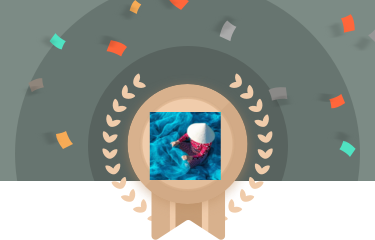
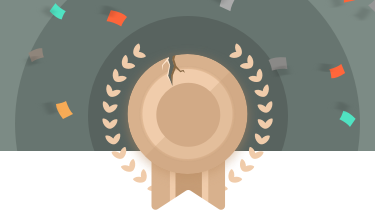
fix:挑战成功失败背景图片替换

diff --git a/components/integralAmation/index.js b/components/integralAmation/index.js
@@ -73,14 +73,16 @@ Component({
         num = num+1
         if (num == this.data.numberAarry.length){ 
           clearInterval(timer)
-          this.setData({
+          /* this.setData({
             animateCompelte:true,            
-          }) 
+          })  */
           setTimeout(()=>{
             this.setData({
+              animateCompelte:true,            
+            });
+            this.setData({
               show: false,
-            }) 
-            
+            });
           },2000)         
         }else{
           var translateY=0
@@ -94,7 +96,7 @@ Component({
         }
 
       }
-      timer = setInterval(counterNumber,1000)
+      timer = setInterval(counterNumber,500)
     },
 
   }

diff --git a/pages/activityResult/index.js b/pages/activityResult/index.js
@@ -66,7 +66,7 @@ Page({
    * 用户点击右上角分享
    */
   onShareAppMessage: function () {
-    wx.showShareMenu();
+    
   },
   getActivityInfo: function(id) {
     let that = this;
